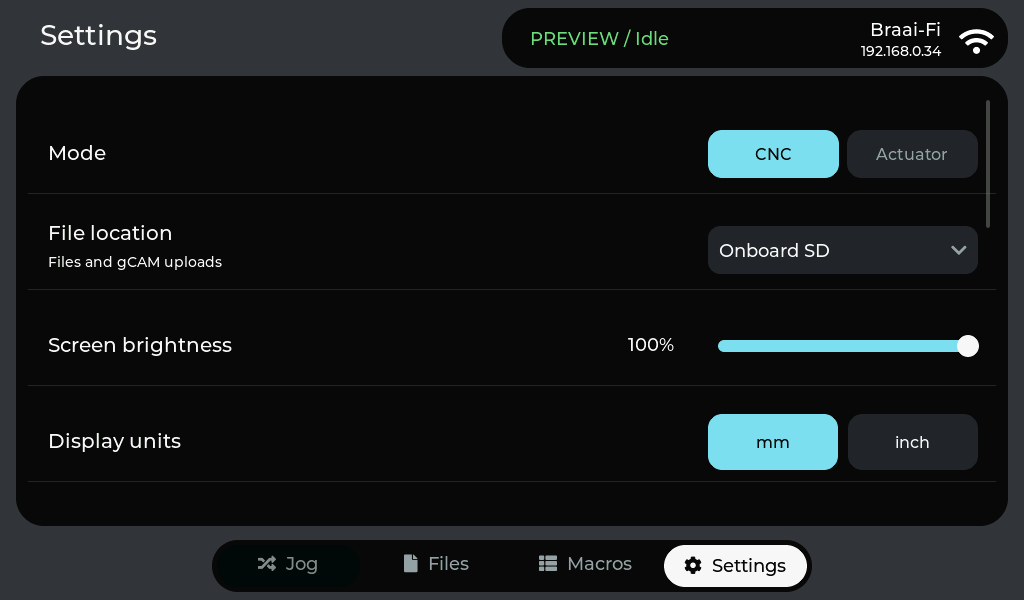
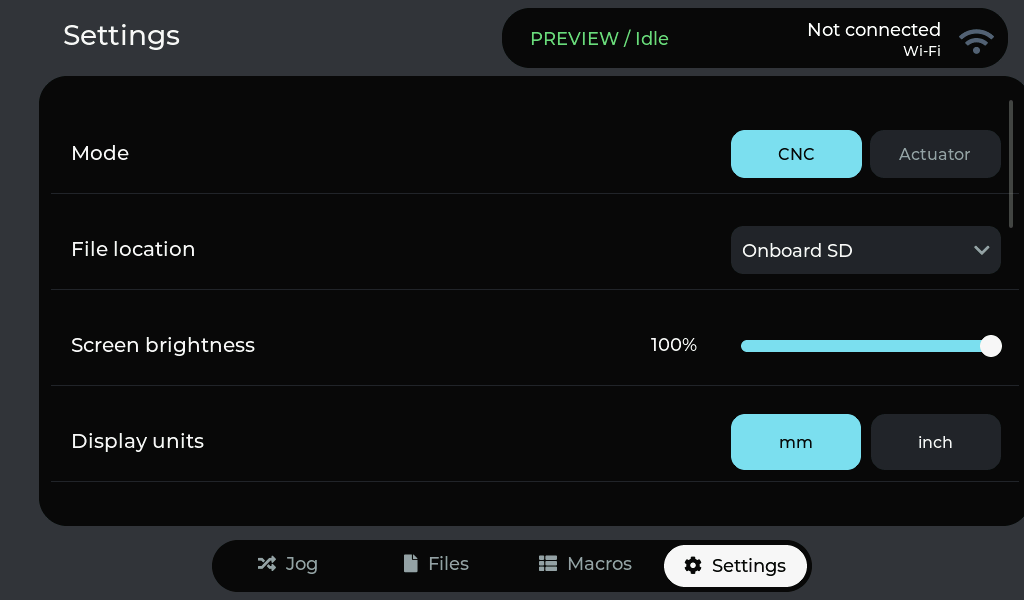
Simplify file location setting label

diff --git a/firmware/viewesmart-p4/main/panel_ui.cpp b/firmware/viewesmart-p4/main/panel_ui.cpp
@@ -1268,8 +1268,7 @@ static void build_page() {
         static const char *const applications[] = {"CNC", "Actuator", ""};
         choices(application, applications, actuator_mode, 680, 16, 270, 48, application_changed);
         auto location = settings_list_row(body, 140, 80);
-        label(location, "File location", 20, 12, 600, 20);
-        label(location, "Files and gCAM uploads", 20, 44, 600, 14, MUTED);
+        label(location, "File location", 20, 28, 600, 20);
         dropdown(location, "Onboard SD\nController SD", storage_source() ? 0 : 1,
                  680, 16, 270, file_location_changed);
         auto light = settings_list_row(body, 236, 80);
